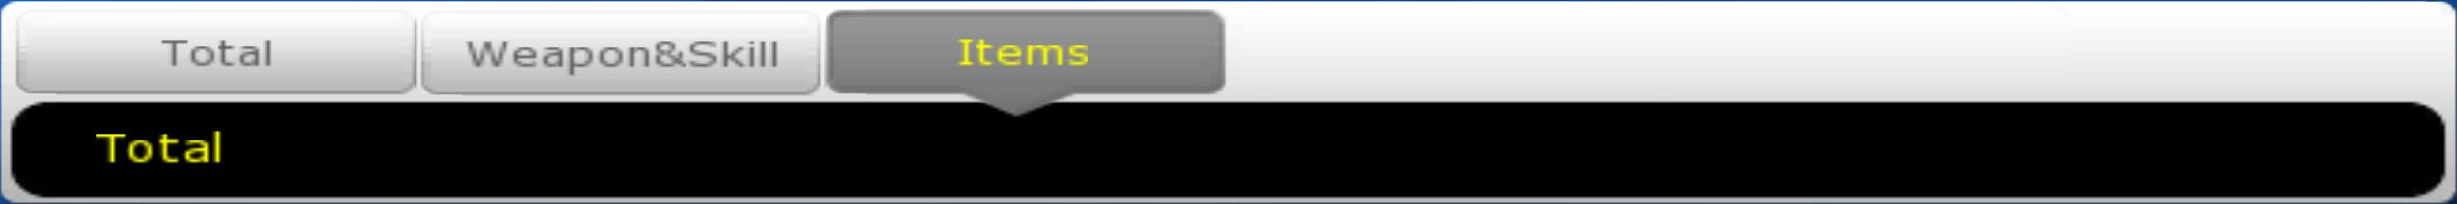
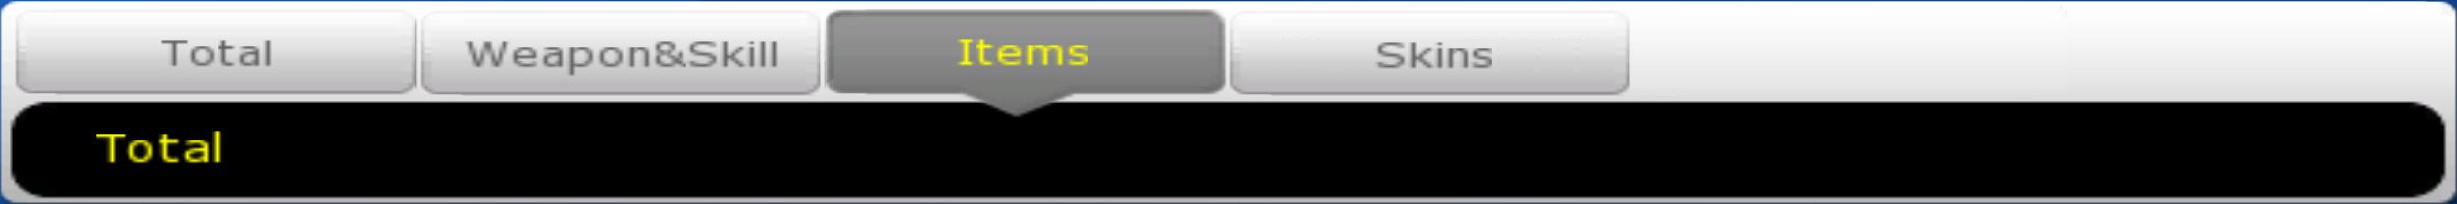
bug fixes and images updates

Changed region(s): [[0.4949, 0.2059, 0.6805, 0.4706]]

diff --git a/src/sql/RankingSystem.java b/src/sql/RankingSystem.java
@@ -945,6 +945,33 @@ public class RankingSystem {
 		}
 	}
 	
+	public static int SQLgetTotalItemNumber(long _user_id, long _guild_id, String _ignore, boolean _boolIgnore){
+		logger.debug("SQLgetTotalItemNumber launched. Passed params {}, {}, {}, {}", _user_id, _guild_id, _ignore, _boolIgnore);
+		Connection myConn = null;
+		PreparedStatement stmt = null;
+		ResultSet rs = null;
+		try {
+			myConn = DriverManager.getConnection("jdbc:mysql://localhost:3306/RankingSystem?autoReconnect=true&useSSL=false", username, password);
+			String sql = ("SELECT COUNT(*) FROM inventory INNER JOIN shop_content ON fk_item_id = item_id AND inventory.fk_guild_id = shop_content.fk_guild_id WHERE fk_user_id = ? && inventory.fk_guild_id = ? AND fk_skin NOT LIKE ?");
+			stmt = myConn.prepareStatement(sql);
+			stmt.setLong(1, _user_id);
+			stmt.setLong(2, _guild_id);
+			stmt.setString(3, _ignore);
+			rs = stmt.executeQuery();
+			if(rs.next()){
+				return rs.getInt(1)/12;
+			}
+			return 0;
+		} catch (SQLException e) {
+			logger.error("SQLgetTotalItemNumber Exception", e);
+			return 0;
+		} finally {
+			try { rs.close(); } catch (Exception e) { /* ignored */ }
+		  try { stmt.close(); } catch (Exception e) { /* ignored */ }
+		  try { myConn.close(); } catch (Exception e) { /* ignored */ }
+		}
+	}
+	
 	public static int SQLgetTotalItemNumber(long _user_id, long _guild_id, boolean _oneType){
 		logger.debug("SQLgetTotalItemNumber launched. Passed params {}, {}, {}", _user_id, _guild_id, _oneType);
 		Connection myConn = null;
@@ -1546,6 +1573,42 @@ public class RankingSystem {
 			return inventory;
 		} catch (SQLException e) {
 			logger.error("SQLgetInventoryAndDescriptionsWeapons Exception", e);
+			return inventory;
+		} finally {
+			try { rs.close(); } catch (Exception e) { /* ignored */ }
+		  try { stmt.close(); } catch (Exception e) { /* ignored */ }
+		  try { myConn.close(); } catch (Exception e) { /* ignored */ }
+		}
+	}
+	
+	public static ArrayList<InventoryContent> SQLgetInventoryAndDescriptionsSkins(long _user_id, long _guild_id, int _limit){
+		logger.debug("SQLgetInventoryAndDescriptions launched. Passed params {}, {}, {}", _user_id, _guild_id, _limit);
+		ArrayList<InventoryContent> inventory = new ArrayList<InventoryContent>();
+		Connection myConn = null;
+		PreparedStatement stmt = null;
+		ResultSet rs = null;
+		try {
+			myConn = DriverManager.getConnection("jdbc:mysql://localhost:3306/RankingSystem?autoReconnect=true&useSSL=false", username, password);
+			String sql = ("SELECT fk_user_id, position, number, fk_status, expires, shop_content.description, shop_content.fk_skin FROM inventory INNER JOIN shop_content ON fk_item_id = item_id AND inventory.fk_guild_id = shop_content.fk_guild_id WHERE fk_user_id = ? AND inventory.fk_guild_id = ? AND shop_content.fk_skin != 'ite' ORDER BY position desc LIMIT ?, 12");
+			stmt = myConn.prepareStatement(sql);
+			stmt.setLong(1, _user_id);
+			stmt.setLong(2, _guild_id);
+			stmt.setInt(3, _limit);
+			rs = stmt.executeQuery();
+			while(rs.next()){
+				InventoryContent setInventory = new InventoryContent();
+				setInventory.setUserID(rs.getLong(1));
+				setInventory.setTimestamp(rs.getTimestamp(2));
+				setInventory.setNumber(rs.getInt(3));
+				setInventory.setStatus(rs.getString(4));
+				setInventory.setExpiration(rs.getTimestamp(5));
+				setInventory.setDescription(rs.getString(6));
+				setInventory.setType(rs.getString(7));
+				inventory.add(setInventory);
+			}
+			return inventory;
+		} catch (SQLException e) {
+			logger.error("SQLgetInventoryAndDescriptions Exception", e);
 			return inventory;
 		} finally {
 			try { rs.close(); } catch (Exception e) { /* ignored */ }

diff --git a/src/commands/Inventory.java b/src/commands/Inventory.java
@@ -59,6 +59,9 @@ public class Inventory implements Command{
 							else
 								itemNumber = RankingSystem.SQLgetTotalItemNumber(e.getMember().getUser().getIdLong(), e.getGuild().getIdLong(), false);
 						}
+						else if(e.getMessage().getContentRaw().toLowerCase().contains("skins")) {
+							itemNumber = RankingSystem.SQLgetTotalItemNumber(e.getMember().getUser().getIdLong(), e.getGuild().getIdLong(), "ite", true);
+						}
 						else
 							itemNumber = RankingSystem.SQLgetTotalItemNumber(e.getMember().getUser().getIdLong(), e.getGuild().getIdLong());
 						if(e.getMessage().getContentRaw().contains(IniFileReader.getCommandPrefix()+"inventory -page ")){
@@ -75,7 +78,7 @@ public class Inventory implements Command{
 						String drawTab = "";
 						if(e.getMessage().getContentRaw().toLowerCase().contains("items"))
 							InventoryBuilder.DrawInventory(e, null, "items", "total", RankingSystem.SQLgetInventoryAndDescriptionsItems(e.getMember().getUser().getIdLong(), e.getGuild().getIdLong(), limit), limit/12+1, itemNumber+1);
-						else if(e.getMessage().getContentRaw().contains("weapons")) {
+						else if(e.getMessage().getContentRaw().toLowerCase().contains("weapons")) {
 							if(!lastWord.equals("weapons") && sub_cat != null) {
 								drawTab = "weapons_"+lastWord;
 								InventoryBuilder.DrawInventory(e, null, "weapons", lastWord, RankingSystem.SQLgetInventoryAndDescriptionsWeapons(e.getMember().getUser().getIdLong(), e.getGuild().getIdLong(), limit, lastWord), limit/12+1, itemNumber+1);
@@ -84,6 +87,10 @@ public class Inventory implements Command{
 								drawTab = "weapons_total";
 								InventoryBuilder.DrawInventory(e, null, "weapons", "total", RankingSystem.SQLgetInventoryAndDescriptionsWeapons(e.getMember().getUser().getIdLong(), e.getGuild().getIdLong(), limit), limit/12+1, itemNumber+1);
 							}
+						}
+						else if(e.getMessage().getContentRaw().toLowerCase().contains("skins")) {
+							drawTab = "skins_total";
+							InventoryBuilder.DrawInventory(e, null, "skins", "total", RankingSystem.SQLgetInventoryAndDescriptionsSkins(e.getMember().getUser().getIdLong(), e.getGuild().getIdLong(), limit), limit/12+1, itemNumber+1);
 						}
 						else {
 							drawTab = "total_total";

diff --git a/src/listeners/GuildMessageReactionAddListener.java b/src/listeners/GuildMessageReactionAddListener.java
@@ -81,7 +81,12 @@ public class GuildMessageReactionAddListener extends ListenerAdapter{
 					e.getChannel().getMessageById(e.getMessageId()).complete().delete().queue();
 					inventory.delete();
 					FileSetting.createFile(IniFileReader.getTempDirectory()+"AutoDelFiles/inventory_bot_gu"+e.getGuild().getId()+"ch"+e.getChannel().getId()+".azr", e.getMember().getUser().getId()+"_"+current_page+"_"+last_page+"_"+inventory_tab+"_"+sub_tab);
-					InventoryBuilder.DrawInventory(null, e, inventory_tab, sub_tab, RankingSystem.SQLgetInventoryAndDescriptions(e.getMember().getUser().getIdLong(), e.getGuild().getIdLong(), ((current_page-1)*12)), current_page, last_page);
+					if(inventory_tab.equalsIgnoreCase("weapons"))
+						InventoryBuilder.DrawInventory(null, e, inventory_tab, sub_tab, RankingSystem.SQLgetInventoryAndDescriptionsWeapons(e.getMember().getUser().getIdLong(), e.getGuild().getIdLong(), ((current_page-1)*12)), current_page, last_page);
+					else if(inventory_tab.equalsIgnoreCase("skins"))
+						InventoryBuilder.DrawInventory(null, e, inventory_tab, sub_tab, RankingSystem.SQLgetInventoryAndDescriptionsSkins(e.getMember().getUser().getIdLong(), e.getGuild().getIdLong(), ((current_page-1)*12)), current_page, last_page);
+					else
+						InventoryBuilder.DrawInventory(null, e, inventory_tab, sub_tab, RankingSystem.SQLgetInventoryAndDescriptions(e.getMember().getUser().getIdLong(), e.getGuild().getIdLong(), ((current_page-1)*12)), current_page, last_page);
 				}
 			}
 		}
